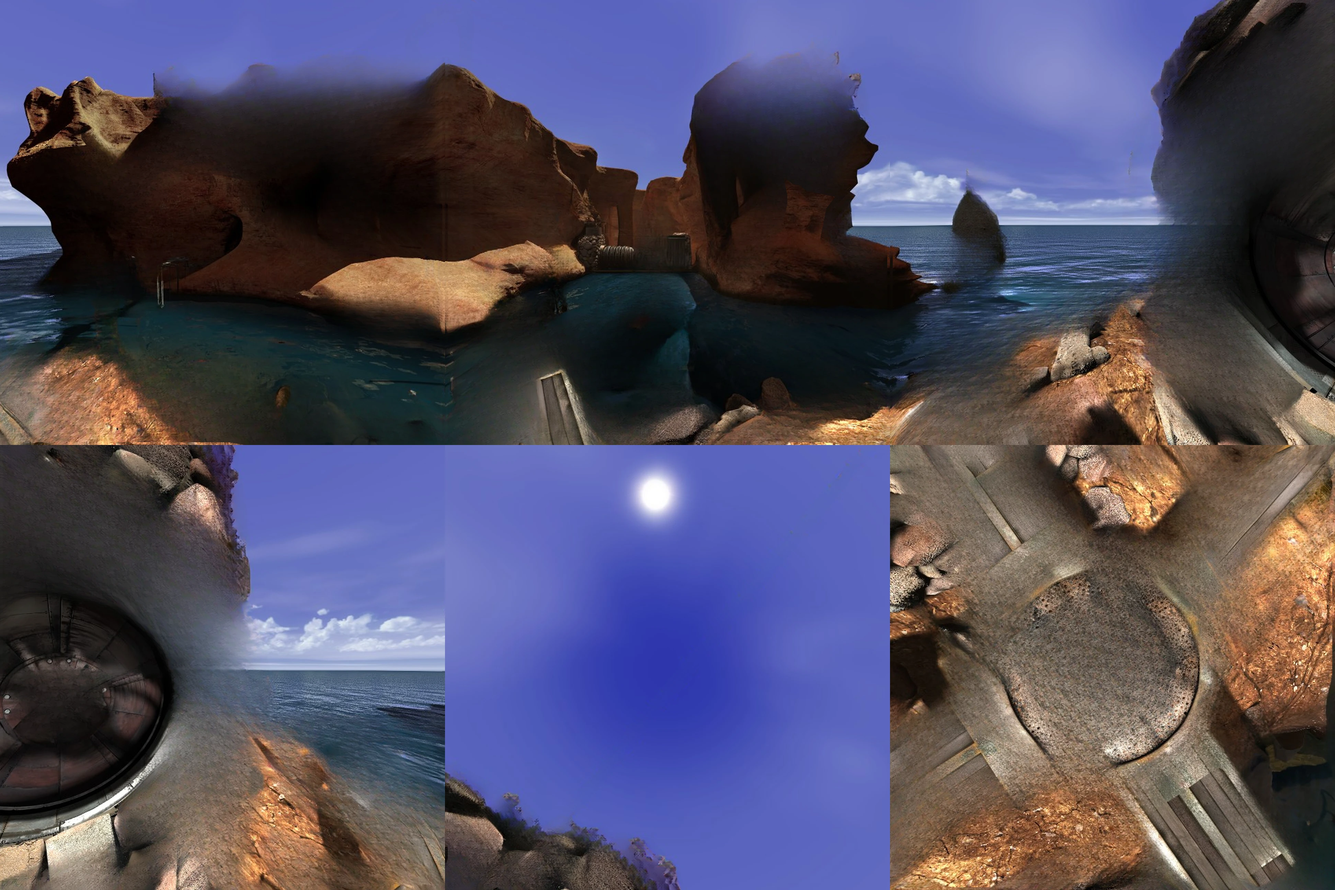
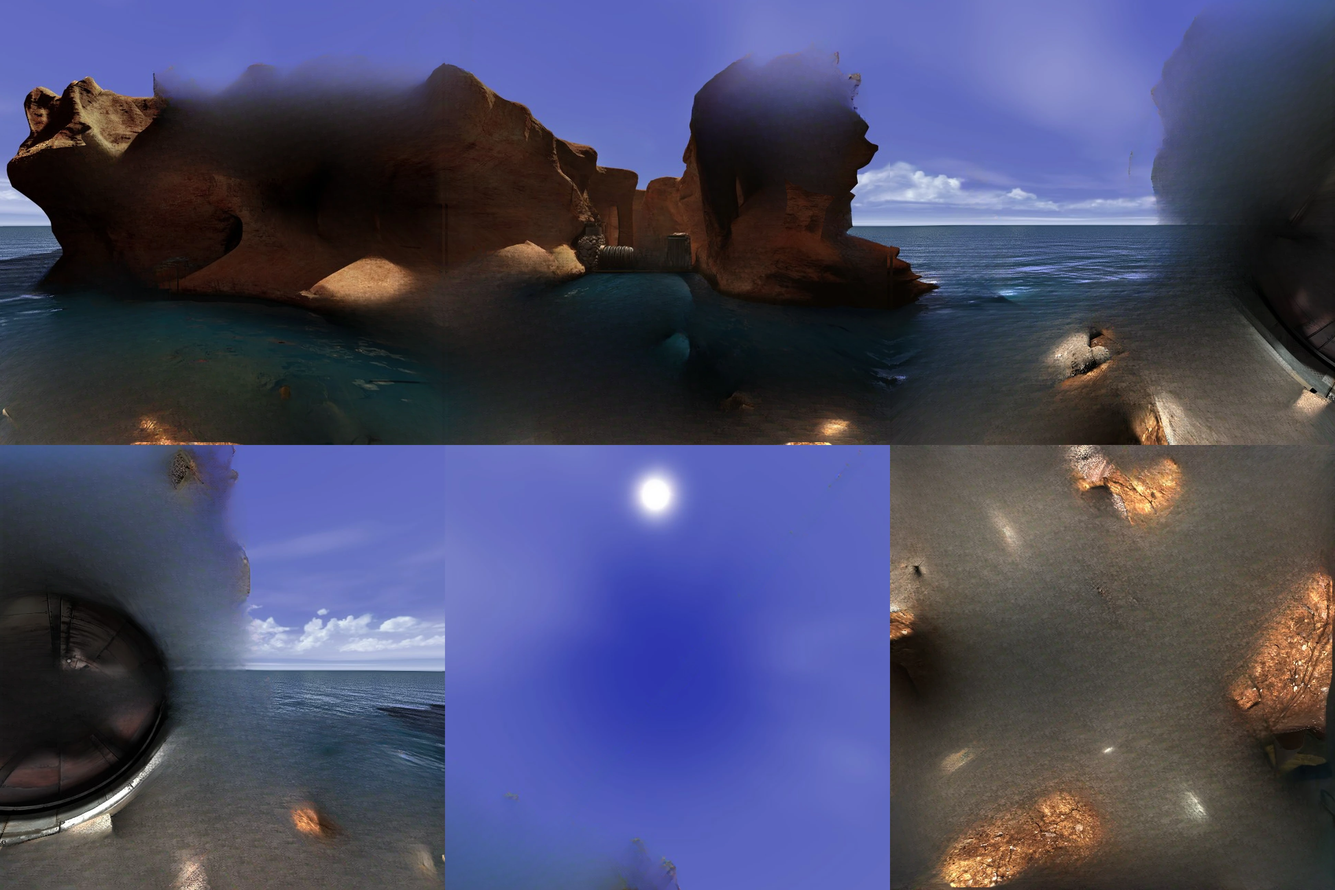
ENSI 16's pod no longer streaks in its Layered version. The pod has steps of its own, a ball in front of its frame in front of the sky, and the backdrop took the frame for what is behind the ball, so LaMa painted a dark pod-shaped blob at the frame's depth. build_layers.py --reach takes the farthest
Claude-Session: https://claude.ai/code/session_01PGTZsQJKeQ77ippduWGzGV

diff --git a/cube/amateria/layers/build_layers.py b/cube/amateria/layers/build_layers.py
@@ -165,12 +165,25 @@ def hole_band(q, whole, t, width, step_at):
     return out, hole
 
 
-def removed_region(q, t, band):
+def removed_region(q, t, band, reach):
     """The near side of every jump within band px of it; the whole near object
-    (all of it nearer than the far side of its nearest jump, connected to a
-    jump's near side), which LaMa must not see; and the far side's q for every
-    pixel (that of the nearest far-side pixel, taken as the least q within 2 px
-    of it, since a step is soft over a pixel or two)."""
+    (all of it nearer than the far side behind it, connected to a jump's near
+    side), which LaMa must not see; and the q of what is behind, for every
+    pixel: the farthest far side of any jump within reach px (a far side's q
+    taken as the least within 2 px, since a step is soft over a pixel or two),
+    else that of the nearest jump.
+
+    The farthest within reach, not the nearest: an object with steps of its
+    own (ENSI 16's pod, a ball in front of its frame in front of the sky) had
+    its frame taken for what is behind the ball, so the frame stayed out of
+    the region, LaMa drew on it and painted more pod, and the backdrop got the
+    frame's depth: a dark pod-shaped blob that streaked as the eye moved.
+    reach is about as far as anything slides. Two layers cannot hold three,
+    though: under MAWW 101's floor slats it took the beams below for part of
+    the slats (the sea is in reach through the gaps), and the gaps showed flat
+    painted grey; keeping only small middle pieces did not tell the beams from
+    the pod's frame. So it is a choice per node: reach 0 is the nearest step,
+    as MAWW 101 is built."""
     near, far = jumps(q, t)
     if not far.any():
         none = np.zeros(q.shape, bool)
@@ -182,6 +195,11 @@ def removed_region(q, t, band):
     order = lab[ys, xs]
     fq_of = np.zeros(order.max() + 1, np.float32); fq_of[order] = qmin[ys, xs]
     fq = fq_of[lab]
+    if reach > 0:
+        BIG = np.float32(1e6)
+        far_q = np.where(far, qmin, BIG).astype(np.float32)
+        behind = cv2.erode(far_q, np.ones((2 * reach + 1, 2 * reach + 1), np.uint8))
+        fq = np.where(behind < BIG, np.minimum(behind, fq), fq)
     nearer = q > fq + t / 2
     _, comp = cv2.connectedComponents(nearer.astype(np.uint8), connectivity=8)
     keep = np.unique(comp[near & nearer]); keep = keep[keep > 0]
@@ -214,6 +232,8 @@ def main():
     ap.add_argument('out'); ap.add_argument('--lama', default='big-lama.pt')
     ap.add_argument('--band', type=int, default=160); ap.add_argument('--jump', type=float, default=0.8)
     ap.add_argument('--fringe', type=int, default=6, help='px the painted region reaches past the jump into the far side')
+    ap.add_argument('--reach', type=int, default=48, help='px within which the farthest far side counts as behind '
+                    '(0: the nearest step\'s far side; MAWW 101 is built so)')
     ap.add_argument('--src', default=AMATERIA, help='folder of the faces and depth maps')
     ap.add_argument('--names', nargs=6, help="the six faces' file names without suffix, in node_depth.py's order "
                     "(front, bottom, back, right, left, top; default MAWWnodes-8 ... -13)")
@@ -242,7 +262,7 @@ def main():
     # face padded with its neighbours so a jump at a seam is seen whole.
     for k in range(1, 7):
         look = pad_lookup(k, N, PAD_)
-        region, whole, fq = removed_region(sample(Q, look), a.jump, sc(a.band))
+        region, whole, fq = removed_region(sample(Q, look), a.jump, sc(a.band), sc(a.reach))
         grow = lambda m: cv2.dilate(m.astype(np.uint8), np.ones((2 * sc(a.fringe) + 1,) * 2, np.uint8)) > 0
         masks[k], hide[k], fqs[k] = grow(region), grow(whole), fq
         fgq[k], holes[k] = hole_band(sample(Q, look), whole, a.jump, sc(a.hole), sc(a.hole_step))

diff --git a/cube/README.md b/cube/README.md
@@ -361,7 +361,15 @@ with 128 px of its neighbours and faces done earlier lending their finished
 backdrop, at the depth of the step's far side, with `backdropFullDepth`
 (`amateria/layers/build_layers.py`, stitched at 1296 px by `stitch_layers.js`).
 What it leaves: small bites out of the glass balls on the front face, where
-the depth steps between a ball and the rings around it. Moving the measured
+the depth steps between a ball and the rings around it. With steps inside a near object (Voltaic ENSI 16's pod: a ball in
+front of its frame in front of the sky) the far side of the nearest step is
+the frame, which then stayed out of the region, and LaMa painted a dark
+pod-shaped blob at the frame's depth that streaked as the eye moved;
+`--reach 48` takes instead the farthest far side within 48 px (96 at 1280),
+the sky, and ENSI 16 is built so. Two layers cannot hold three, though: under
+MAWW 101's floor it took the beams below the slats for part of them and the
+gaps showed flat grey, so MAWW 101 and MASS 84 keep the nearest step
+(`--reach 0`). Moving the measured
 depth's edges onto the picture's by colour was tried first (pixels within
 14–18 px of a jump relabelled near or far) and dropped: in these dark faces
 the labels came out speckled, each speckle tore, and the rings and arcs broke
